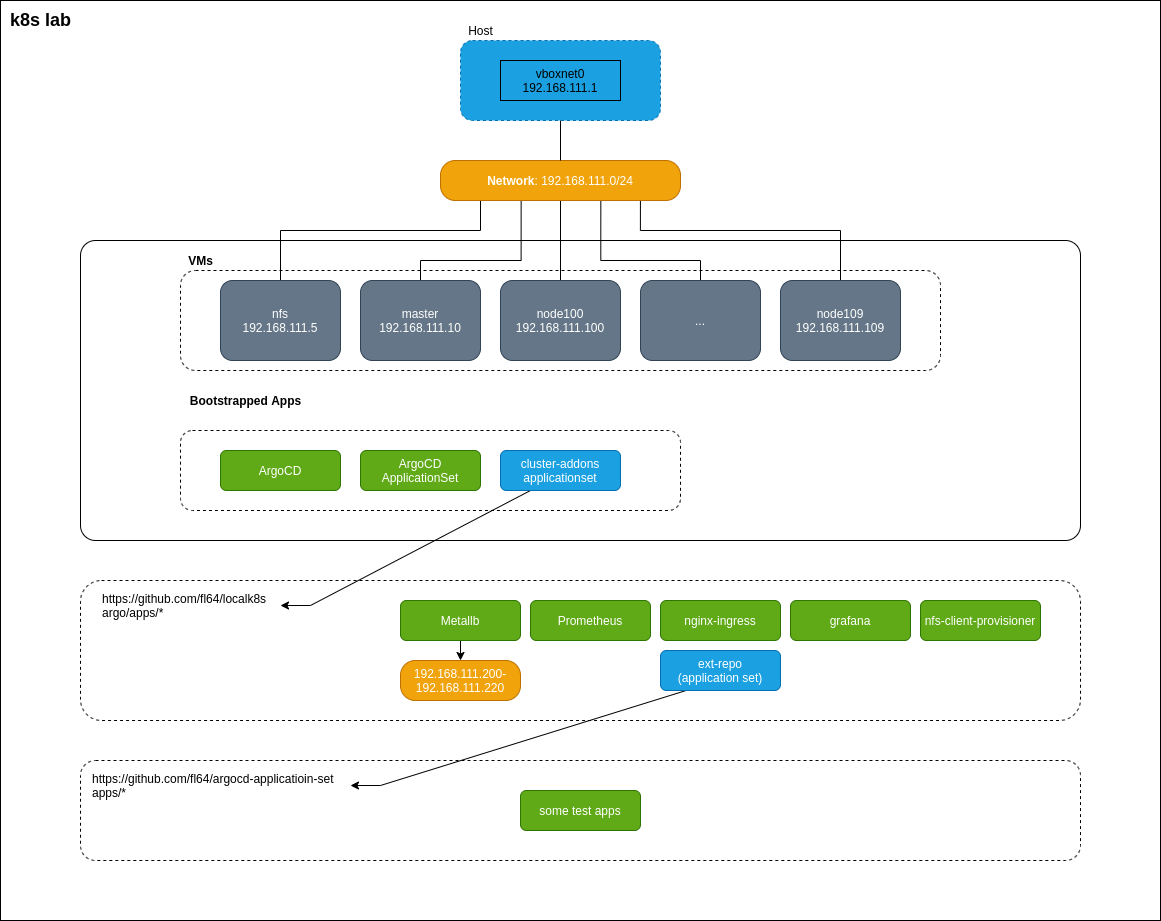
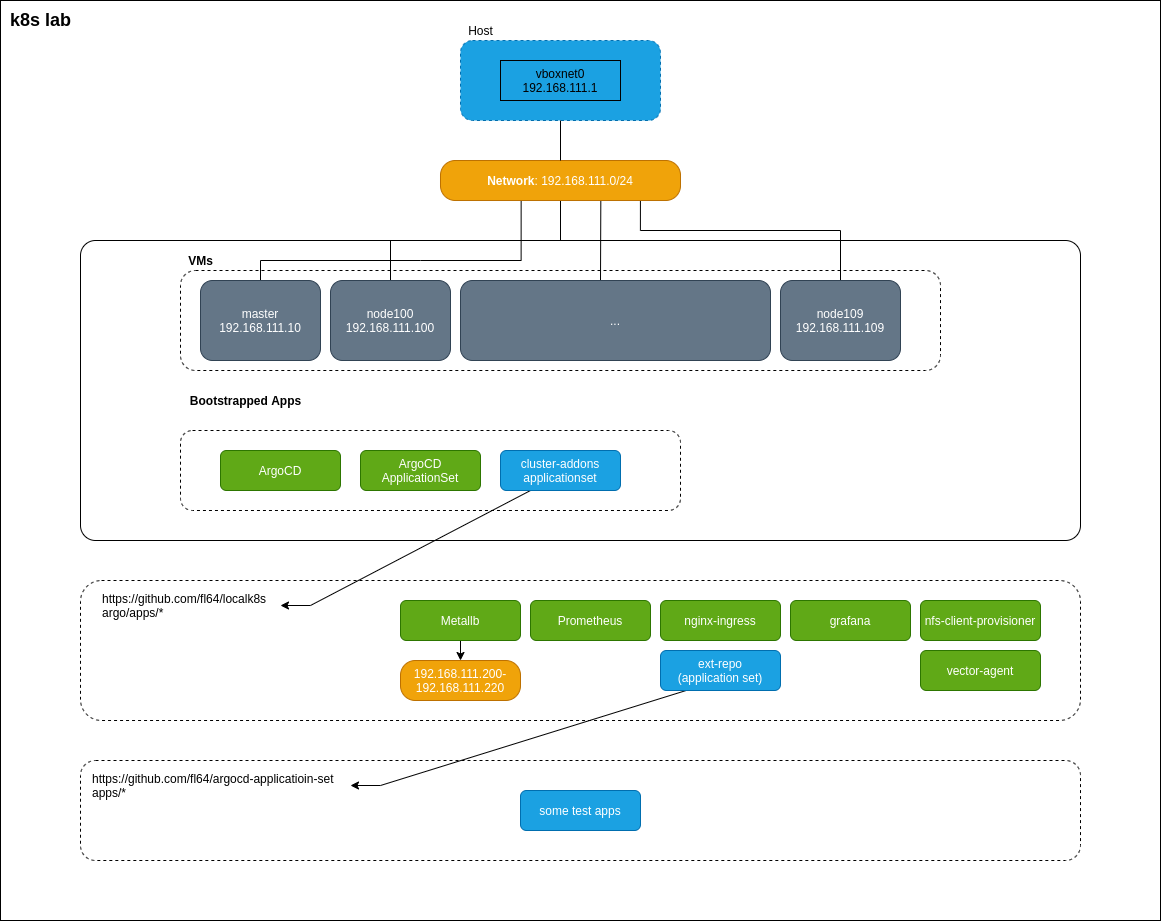
add vector

diff --git a/README.md b/README.md
@@ -72,7 +72,7 @@ vagrant down
 ```
 
 ## Prep:
-(Already embedded in VM OS)
+(Already embedded in VMs)
 
 Add some completions:
 ```bash
